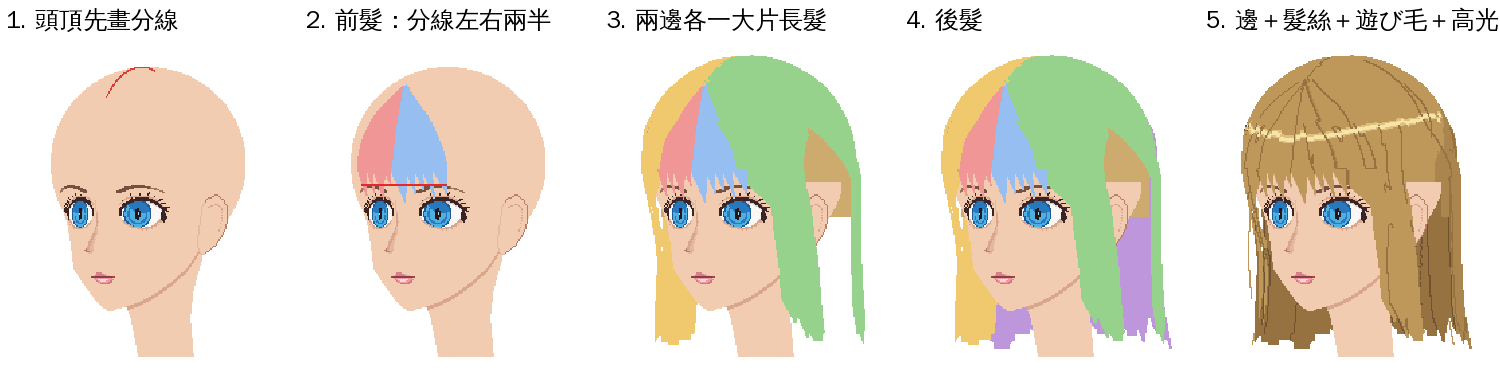
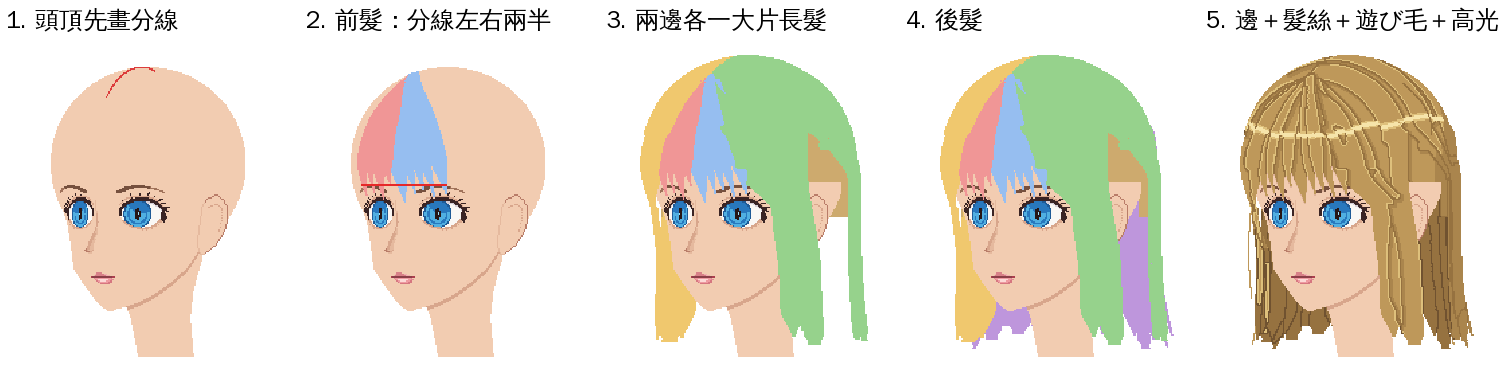
臉模 v2：長直髮片和片看得出上下（下面那片貼邊暗＋往右下淡影子、上面那片邊亮一格）；重疊照固定順序蓋、交界抹平；前髮根部沿分線散開
Claude-Session: https://claude.ai/code/session_01FDQv7ddy7JMjePn6AqJ3VJ

diff --git a/web/droom/face_mold/v2/hair_long.py b/web/droom/face_mold/v2/hair_long.py
@@ -61,9 +61,9 @@ def curtain(s,z0,hw0,layer,tip,rnd):
   pt=rnd.random()<.35
   hw=lambda l:hw0*(np.clip((L-l)/18,.12,1) if pt else np.clip((L-l)/6,.6,1))   # 髮尾：大多剪齊，少數收尖
   return Strand('curtain',('c',s,round(z0)),layer,f,L,hw)
-def bang(xt,yt,hw0,layer,i):
+def bang(xt,yt,hw0,layer,i,ph=PHF-.04):
   # 前髮：從分線前端散開往下，尖尖的髮尾
-  P=part_pt(PHF-.04,RO+.8*layer);y0=P[1];L=(yt-y0)*1.08
+  P=part_pt(ph,RO+.8*layer);y0=P[1];L=(yt-y0)*1.08
   def f(l):
     u=np.clip(np.asarray(l,float)/L,0,1)
     x=XP+(xt-XP)*(1-(1-u)**2.2);y=y0+(yt-y0)*u
@@ -71,7 +71,7 @@ def bang(xt,yt,hw0,layer,i):
     return x,y,z
   def hw(l):
     u=np.asarray(l,float)/L
-    return hw0*(.3+.7*sm(u/.45))*np.clip((1-u)/.3,.06,1)
+    return hw0*(.55+.45*sm(u/.45))*np.clip((1-u)/.3,.06,1)
   st=Strand('bang',('b',i),layer,f,L,hw);st.mass='bangL' if xt<XP else 'bangR';return st
 def lock(s,xs,hw0,layer,tip,rnd,i,dx=12):
   # 鬢髮：從分線前段斜斜下來，到眉尾高度在眉尾外面（蓋住太陽穴）→ 沿著臉的輪廓往外、往後滑到眼睛後面 → 垂下（耳朵前面），髮尾往外一點
@@ -120,12 +120,12 @@ def build(seed=7):
   while x<BROW+2:
     w=rnd.uniform(11,14) if big else rnd.uniform(6,8)
     xt=x+w/2;yt=rnd.uniform(134,142) if big else rnd.uniform(128,138)
-    S.append(bang(xt,yt,w/2+1,0 if big else 1,i));x+=w;big=not big if rnd.random()<.8 else big;i+=1
+    S.append(bang(xt,yt,w/2+1,0 if big else 1,i,PHF-.04-.22*min(1,abs(xt-XP)/40)));x+=w;big=not big if rnd.random()<.8 else big;i+=1   # 根部沿分線散開（離分線越遠的根越後面）
   # 兩側：z0 從前額旁（55）到頭頂後面（-34），一束束
   for s in(-1,1):
     z=55;k=0
     while z>-36:
-      w=rnd.uniform(10,15);tip=rnd.uniform(236,248)
+      w=rnd.uniform(15,21);tip=rnd.uniform(236,248)
       S.append(curtain(s,z,w/2+1,k%2,tip,rnd));z-=w*.8;k+=1
   # 鬢髮：每邊兩束
   for s in(-1,1):
@@ -135,10 +135,12 @@ def build(seed=7):
   th=math.radians(108);i=0
   while th<math.radians(252):
     w=rnd.uniform(12,17);S.append(back(th,w/2+1,i%2,rnd.uniform(232,252),rnd,i));th+=w*.8/RO;i+=1
+  ro=random.Random(21)
+  for st in S:st.r=ro.random()                          # 每束固定的上下順序（同一層裡）
   return S
 def base_cap(S):
   # 底層：一束束底下的頭髮（殼小一點），髮際線形狀；束和束之間的縫看到的是頭髮不是頭皮
-  st=Strand('base',('base',),-1,None,0,None);S.append(st);k=len(S)-1
+  st=Strand('base',('base',),-1,None,0,None);st.r=0;S.append(st);k=len(S)-1
   P=[];r=RO-1.4
   for y in np.arange(CY-r+.2,CY+44,.4):
     rr=math.sqrt(max(0,r*r-(y-CY)**2)) if y<CY else r
@@ -179,7 +181,8 @@ def project(S,Q,NN,ID,img,deg,cx):
   HD=head_depth(deg,cx);white=(img==255).all(2)
   X=np.floor(cx+Q[:,0]*ca-Q[:,2]*sa).astype(int);Yp=np.floor(Q[:,1]).astype(int);d=Q[:,0]*sa+Q[:,2]*ca
   lay=np.array([S[i].layer for i in ID]);kb=np.array([BIAS[S[i].kind] for i in range(len(S))])[ID]
-  db=d+kb+lay*.5
+  rr=np.array([getattr(st,'r',0) for st in S])[ID]
+  db=d+kb+lay*1.5+rr*1.5                                 # 重疊時照固定順序蓋（不逐格比深度，不然邊會鋸齒）
   ok=(X>=0)&(X<N)&(Yp>=0)&(Yp<N)
   X,Yp,d,db,ID2,NN2,Q2=X[ok],Yp[ok],d[ok],db[ok],ID[ok],NN[ok],Q[ok]
   idx=Yp*N+X;o=np.lexsort((-db,idx));u,first=np.unique(idx[o],return_index=True);sel=o[first]
@@ -193,6 +196,18 @@ def project(S,Q,NN,ID,img,deg,cx):
       bxs=NN2[j,4]*ca-NN2[j,6]*sa                          # 這束的橫向在畫面上往右還是往左
       lft=-NN2[j,3]*np.sign(bxs) if abs(bxs)>.2 else 0.  # >0＝這束的左邊（受光）、<0＝右邊（背光）
       vis[(Xj,Yj)]=(ID2[j],S[ID2[j]].layer,Q2[j,0],Q2[j,1],Q2[j,2],inside,lft)
+  # 交界抹平：一格一格跳來跳去的鋸齒 → 歸給周圍多數那片（做兩次）
+  for _ in range(3):
+    nv={}
+    for (Xj,Yj),v in vis.items():
+      cnt={}
+      for dx in(-2,-1,0,1,2):
+        for dy in(-2,-1,0,1,2):
+          q=vis.get((Xj+dx,Yj+dy))
+          if q is not None:cnt.setdefault(q[0],[0,q]);cnt[q[0]][0]+=1
+      own=cnt[v[0]][0];bi,(bc,bq)=max(cnt.items(),key=lambda kv:kv[1][0])
+      nv[(Xj,Yj)]=(bi,)+tuple(bq[1:]) if (bi!=v[0] and bc>=12 and own<=9) else v
+    vis=nv
   return vis
 def paint(S,vis,img,stage,deg=0):
   out=img.copy();white=(img==255).all(2)
@@ -219,42 +234,45 @@ def paint(S,vis,img,stage,deg=0):
     tone[(X,Y)]=t
   T={k:int(min(4,max(0,round(v)))) for k,v in tone.items()}
   for (X,Y),t in T.items():out[Y,X]=C[TONE[t]]
-  # 片的邊：右邊或下面換片 → 這格暗；疊在別片上 → 右下投影子；分線兩邊一定畫；約 45% 一路到分線，其他只畫中下段
-  rf=random.Random(13);full={};E={}
-  for (X,Y),(i,layer,x,y,z,ins,*_) in vis.items():
-    for nb in((X+1,Y),(X,Y+1)):
-      r=vis.get(nb)
-      if r is None or r[0]==i:continue
-      a,b=S[i],S[r[0]]
-      if 'base' in(a.kind,b.kind):continue                # 底層和束之間不畫線
-      if a.mass!=b.mass:                                  # 大塊和大塊之間：一定畫；上面那塊在下面那塊投影子
-        E[(X,Y)]=RANK[a.mass]>RANK[b.mass];continue
-      key=tuple(sorted([i,r[0]]))                         # 同一大塊裡面：只挑一些當髮絲（約 35%），有的到分線、有的只在中下段
-      g=full.setdefault(key,(rf.random()<.35,rf.random()<.4))
-      if not g[0]:continue
-      if not g[1] and y<CY-30:continue
-      E[(X,Y)]=False
-  # 連起來不到 5 格的不畫（取樣跳動的雜點）
-  seen={};comp=[]
-  for p in E:
+  # 片的上下（使用者 2026-11-19 參考圖：看得出每一片蓋在另一片上面或下面，不是只用線分開）
+  # 每片有固定上下順序：前髮 > 鬢髮 > 兩邊長髮 > 後髮 > 底層；同一塊裡上層 > 下層
+  # 下面那片緊貼上面那片的地方：貼著那格最暗，往右下（光從左上）再淡淡 1～2 格；上面那片不動
+  ORD={i:BIAS[st.kind]*10+st.layer*3+getattr(st,'r',0) for i,st in enumerate(S)}
+  D1={};D2=set();RIM=set()
+  for (X,Y),v in vis.items():
+    i=v[0];oi=ORD[i];best=9
+    for dx,dy in((1,0),(0,1),(1,1),(-1,0),(0,-1)):          # 上面那片的邊（旁邊就是下面那片）→ 亮一格
+      q=vis.get((X+dx,Y+dy))
+      if q is not None and q[0]!=i and ORD[q[0]]<oi and S[q[0]].kind!='base' and not v[5]:RIM.add((X,Y));break
+    for dy in(-3,-2,-1,0,1):
+      for dx in(-3,-2,-1,0,1):
+        dd=max(abs(dx),abs(dy))
+        if dd==0 or (dd>1 and (dx>0 or dy>0)):continue
+        if dd>=best:continue
+        q=vis.get((X+dx,Y+dy))
+        if q is not None and q[0]!=i and ORD[q[0]]>oi:best=dd
+    if best==1:D1[(X,Y)]=v[5]
+    elif best<=3:D2.add((X,Y))
+  for p in RIM:
+    if p not in D1 and p not in D2 and T[p]<=1:T[p]=0;out[p[1],p[0]]=C['li']
+  for p in D2:
+    if T[p]<2:T[p]=2;out[p[1],p[0]]=C['ms']
+  # 貼著那格的暗線：連起來不到 4 格的不畫（取樣跳動的雜點）
+  seen=set()
+  for p in D1:
     if p in seen:continue
-    st=[p];seen[p]=1;cc=[]
+    st=[p];seen.add(p);cc=[]
     while st:
       q=st.pop();cc.append(q)
       for dx in(-1,0,1):
         for dy in(-1,0,1):
           nq=(q[0]+dx,q[1]+dy)
-          if nq in E and nq not in seen:seen[nq]=1;st.append(nq)
-    comp.append(cc)
-  for cc in comp:
-    if len(cc)<5:continue
-    for (X,Y) in cc:
-      out[Y,X]=C['dk'] if vis[(X,Y)][5] else C['sh']
-      if E[(X,Y)]:                                       # 上面那塊投在下面那塊的影子：2～3 格寬、越遠越淡
-        m=S[vis[(X,Y)][0]].mass
-        for dx,dy,tt in((1,1,3),(2,1,2)):
-          q=(X+dx,Y+dy)
-          if q in vis and S[vis[q][0]].mass!=m and T[q]<tt:T[q]=tt;out[q[1],q[0]]=C[TONE[tt]]
+          if nq in D1 and nq not in seen:seen.add(nq);st.append(nq)
+    if len(cc)<4:
+      for q in cc:
+        if T[q]<2:T[q]=2;out[q[1],q[0]]=C['ms']
+      continue
+    for q in cc:out[q[1],q[0]]=C['dk'] if D1[q] else C['sh'];T[q]=3
   # 前髮投在額頭的影子
   for (X,Y),(i,*_) in vis.items():
     if S[i].kind=='bang' and (X,Y+1) not in vis and Y+1<N and not white[Y+1,X]:out[Y+1,X]=SKSH
